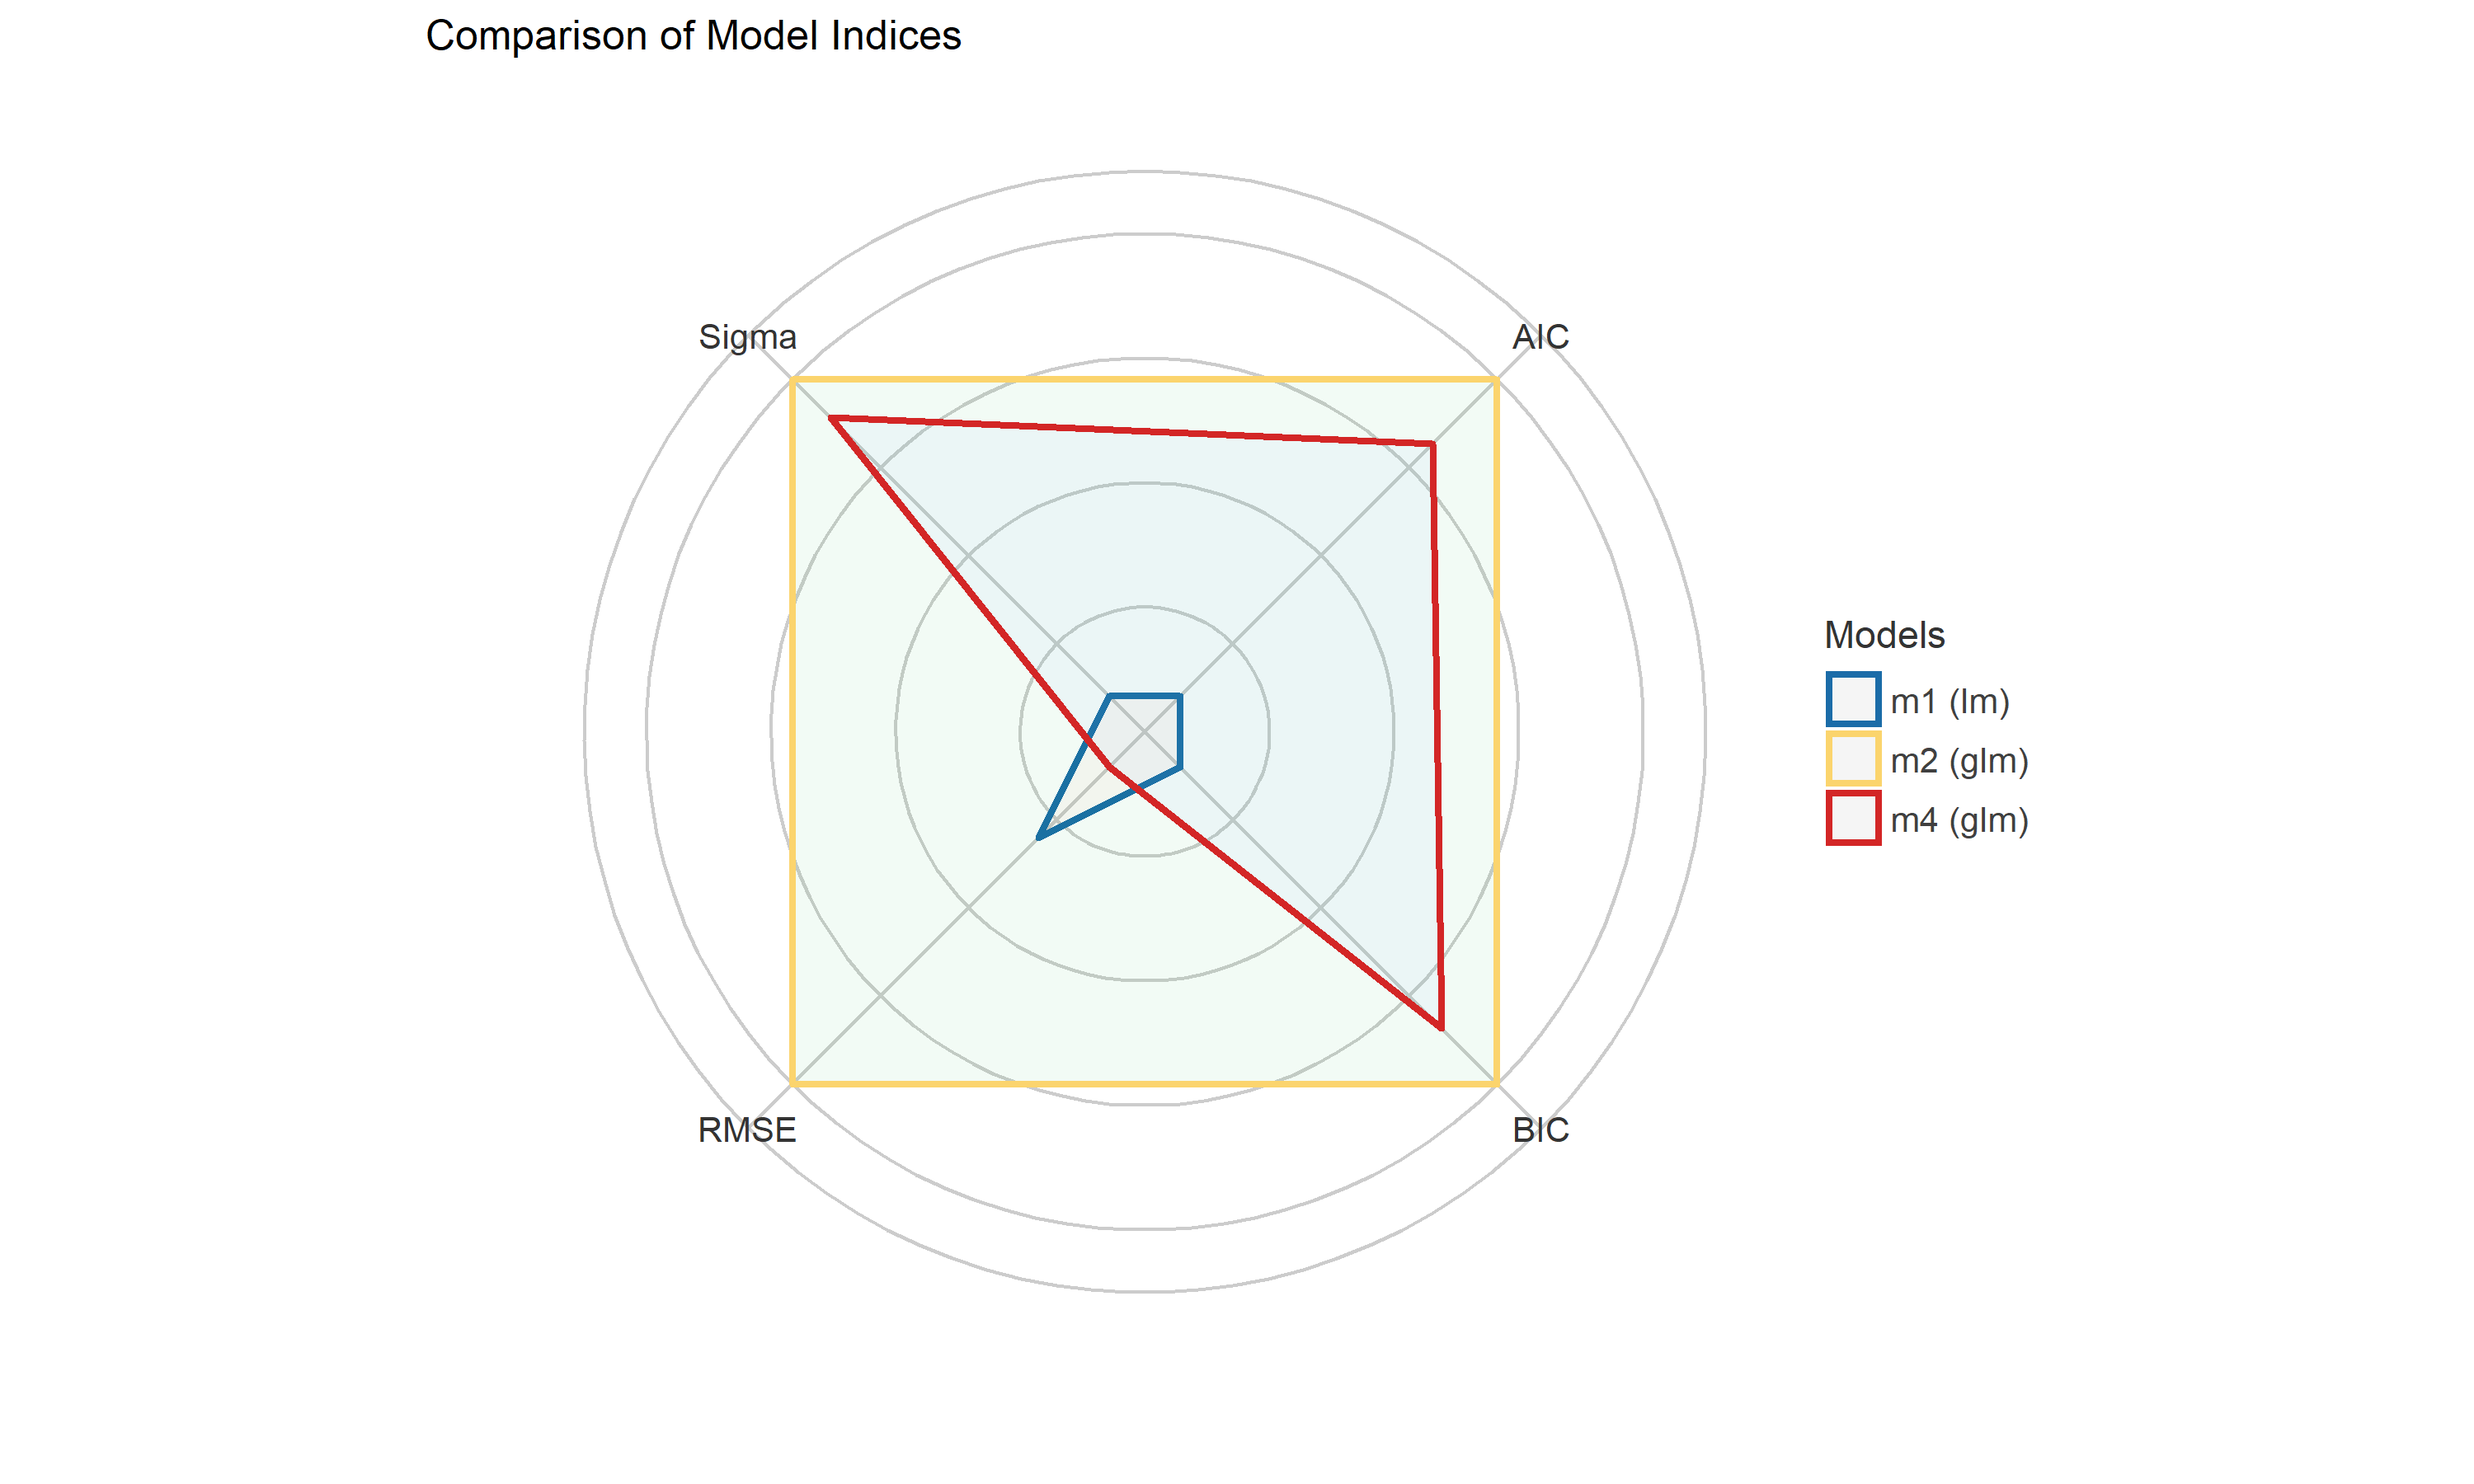
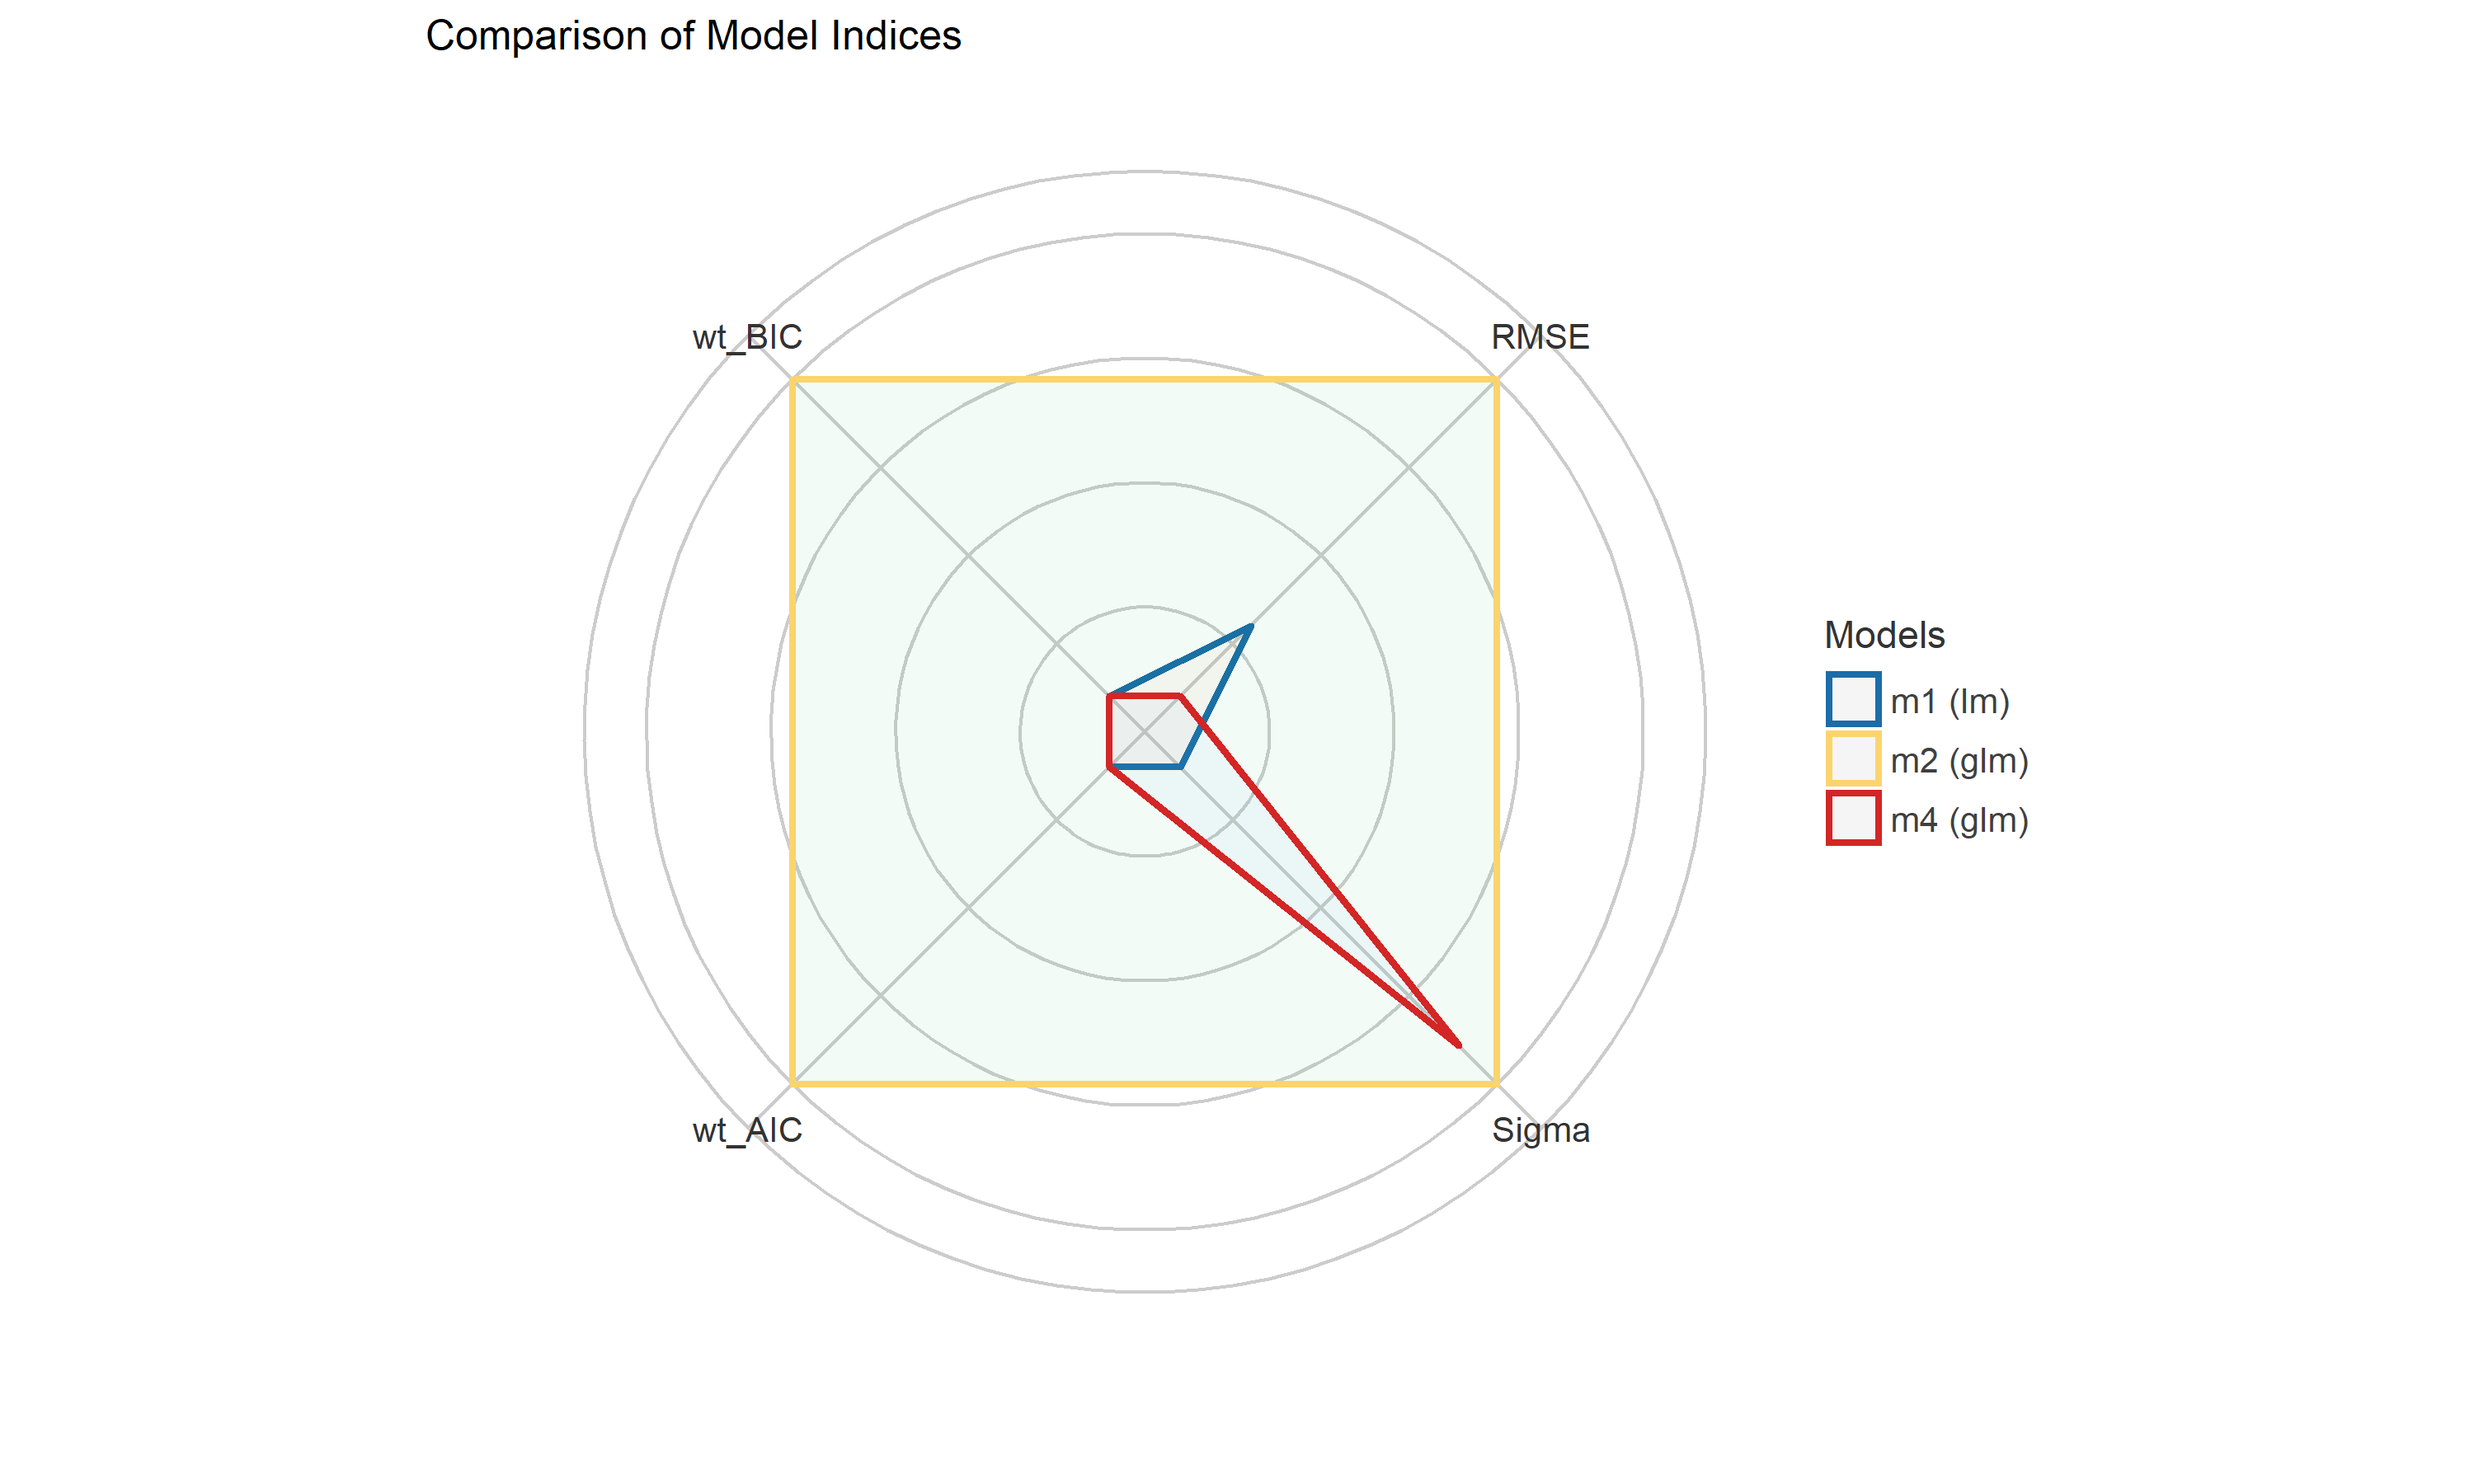
update readme

diff --git a/README.md b/README.md
@@ -138,10 +138,10 @@ library(rstanarm)
 model <- stan_glmer(Petal.Length ~ Petal.Width + (1 | Species), data = iris, cores = 4)
 
 r2(model)
-#> # Bayesian R2 with Standard Error
+#> # Bayesian R2 with Compatibility Interval
 #> 
-#>   Conditional R2: 0.953 (89% CI [0.944, 0.962])
-#>      Marginal R2: 0.824 (89% CI [0.747, 0.890])
+#>   Conditional R2: 0.953 (95% CI [0.941, 0.963])
+#>      Marginal R2: 0.824 (95% CI [0.713, 0.896])
 
 library(lme4)
 model <- lmer(Reaction ~ Days + (1 + Days | Subject), data = sleepstudy)
@@ -358,12 +358,12 @@ m4 <- glm(counts ~ outcome + treatment, family = poisson())
 compare_performance(m1, m2, m3, m4)
 #> # Comparison of Model Performance Indices
 #> 
-#> Name |   Model |      AIC |      BIC |   RMSE |  Sigma | Score_log | Score_spherical |    R2 | R2 (adj.) | Tjur's R2 | Log_loss |   PCP | R2 (cond.) | R2 (marg.) |   ICC | Nagelkerke's R2
-#> -------------------------------------------------------------------------------------------------------------------------------------------------------------------------------------------
-#> m1   |      lm |  156.010 |  161.873 |  2.444 |  2.568 |           |                 | 0.830 |     0.819 |           |          |       |            |            |       |                
-#> m2   |     glm |   31.298 |   35.695 |  0.359 |  0.934 |   -14.903 |           0.095 |       |           |     0.478 |    0.395 | 0.743 |            |            |       |                
-#> m3   | lmerMod | 1755.628 | 1774.786 | 23.438 | 25.592 |           |                 |       |           |           |          |       |      0.799 |      0.279 | 0.722 |                
-#> m4   |     glm |   56.761 |   57.747 |  3.043 |  1.132 |    -2.598 |           0.324 |       |           |           |          |       |            |            |       |           0.657
+#> Name |   Model |      AIC |    wt_AIC |      BIC |    wt_BIC |   RMSE |  Sigma | Score_log | Score_spherical |    R2 | R2 (adj.) | Tjur's R2 | Log_loss |   PCP | R2 (cond.) | R2 (marg.) |   ICC | Nagelkerke's R2
+#> -------------------------------------------------------------------------------------------------------------------------------------------------------------------------------------------------------------------
+#> m1   |      lm |  156.010 | 8.300e-28 |  161.873 | 3.988e-28 |  2.444 |  2.568 |           |                 | 0.830 |     0.819 |           |          |       |            |            |       |                
+#> m2   |     glm |   31.298 |     1.000 |   35.695 |     1.000 |  0.359 |  0.934 |   -14.903 |           0.095 |       |           |     0.478 |    0.395 | 0.743 |            |            |       |                
+#> m3   | lmerMod | 1755.628 |     0.000 | 1774.786 |     0.000 | 23.438 | 25.592 |           |                 |       |           |           |          |       |      0.799 |      0.279 | 0.722 |                
+#> m4   |     glm |   56.761 | 2.956e-06 |   57.747 | 1.627e-05 |  3.043 |  1.132 |    -2.598 |           0.324 |       |           |           |          |       |            |            |       |           0.657
 ```
 
 #### General index of model performance
@@ -376,12 +376,12 @@ of model performance and sort the models from the best one to the worse.
 compare_performance(m1, m2, m3, m4, rank = TRUE)
 #> # Comparison of Model Performance Indices
 #> 
-#> Name |   Model |      AIC |      BIC |   RMSE |  Sigma | Performance-Score
-#> --------------------------------------------------------------------------
-#> m2   |     glm |   31.298 |   35.695 |  0.359 |  0.934 |           100.00%
-#> m4   |     glm |   56.761 |   57.747 |  3.043 |  1.132 |            96.21%
-#> m1   |      lm |  156.010 |  161.873 |  2.444 |  2.568 |            92.46%
-#> m3   | lmerMod | 1755.628 | 1774.786 | 23.438 | 25.592 |             0.00%
+#> Name |   Model |   RMSE |  Sigma |    wt_AIC |    wt_BIC | Performance-Score
+#> ----------------------------------------------------------------------------
+#> m2   |     glm |  0.359 |  0.934 |     1.000 |     1.000 |           100.00%
+#> m4   |     glm |  3.043 |  1.132 | 2.956e-06 | 1.627e-05 |            46.89%
+#> m1   |      lm |  2.444 |  2.568 | 8.300e-28 | 3.988e-28 |            46.09%
+#> m3   | lmerMod | 23.438 | 25.592 |     0.000 |     0.000 |             0.00%
 ```
 
 #### Visualisation of indices of models’ performance
@@ -413,12 +413,12 @@ lm4 <- lm(Sepal.Length ~ Species * Sepal.Width + Petal.Length + Petal.Width, dat
 compare_performance(lm1, lm2, lm3, lm4)
 #> # Comparison of Model Performance Indices
 #> 
-#> Name | Model |     AIC |     BIC |    R2 | R2 (adj.) |  RMSE | Sigma
-#> --------------------------------------------------------------------
-#> lm1  |    lm | 231.452 | 243.494 | 0.619 |     0.614 | 0.510 | 0.515
-#> lm2  |    lm | 106.233 | 121.286 | 0.837 |     0.833 | 0.333 | 0.338
-#> lm3  |    lm | 187.092 | 208.167 | 0.727 |     0.718 | 0.431 | 0.440
-#> lm4  |    lm |  78.797 | 105.892 | 0.871 |     0.865 | 0.296 | 0.305
+#> Name | Model |     AIC |    wt_AIC |     BIC |    wt_BIC |    R2 | R2 (adj.) |  RMSE | Sigma
+#> --------------------------------------------------------------------------------------------
+#> lm1  |    lm | 231.452 | 7.101e-34 | 243.494 | 1.318e-30 | 0.619 |     0.614 | 0.510 | 0.515
+#> lm2  |    lm | 106.233 | 1.102e-06 | 121.286 | 4.541e-04 | 0.837 |     0.833 | 0.333 | 0.338
+#> lm3  |    lm | 187.092 | 3.048e-24 | 208.167 | 6.184e-23 | 0.727 |     0.718 | 0.431 | 0.440
+#> lm4  |    lm |  78.797 |     1.000 | 105.892 |     1.000 | 0.871 |     0.865 | 0.296 | 0.305
 
 test_bf(lm1, lm2, lm3, lm4)
 #> Bayes Factors for Model Comparison
